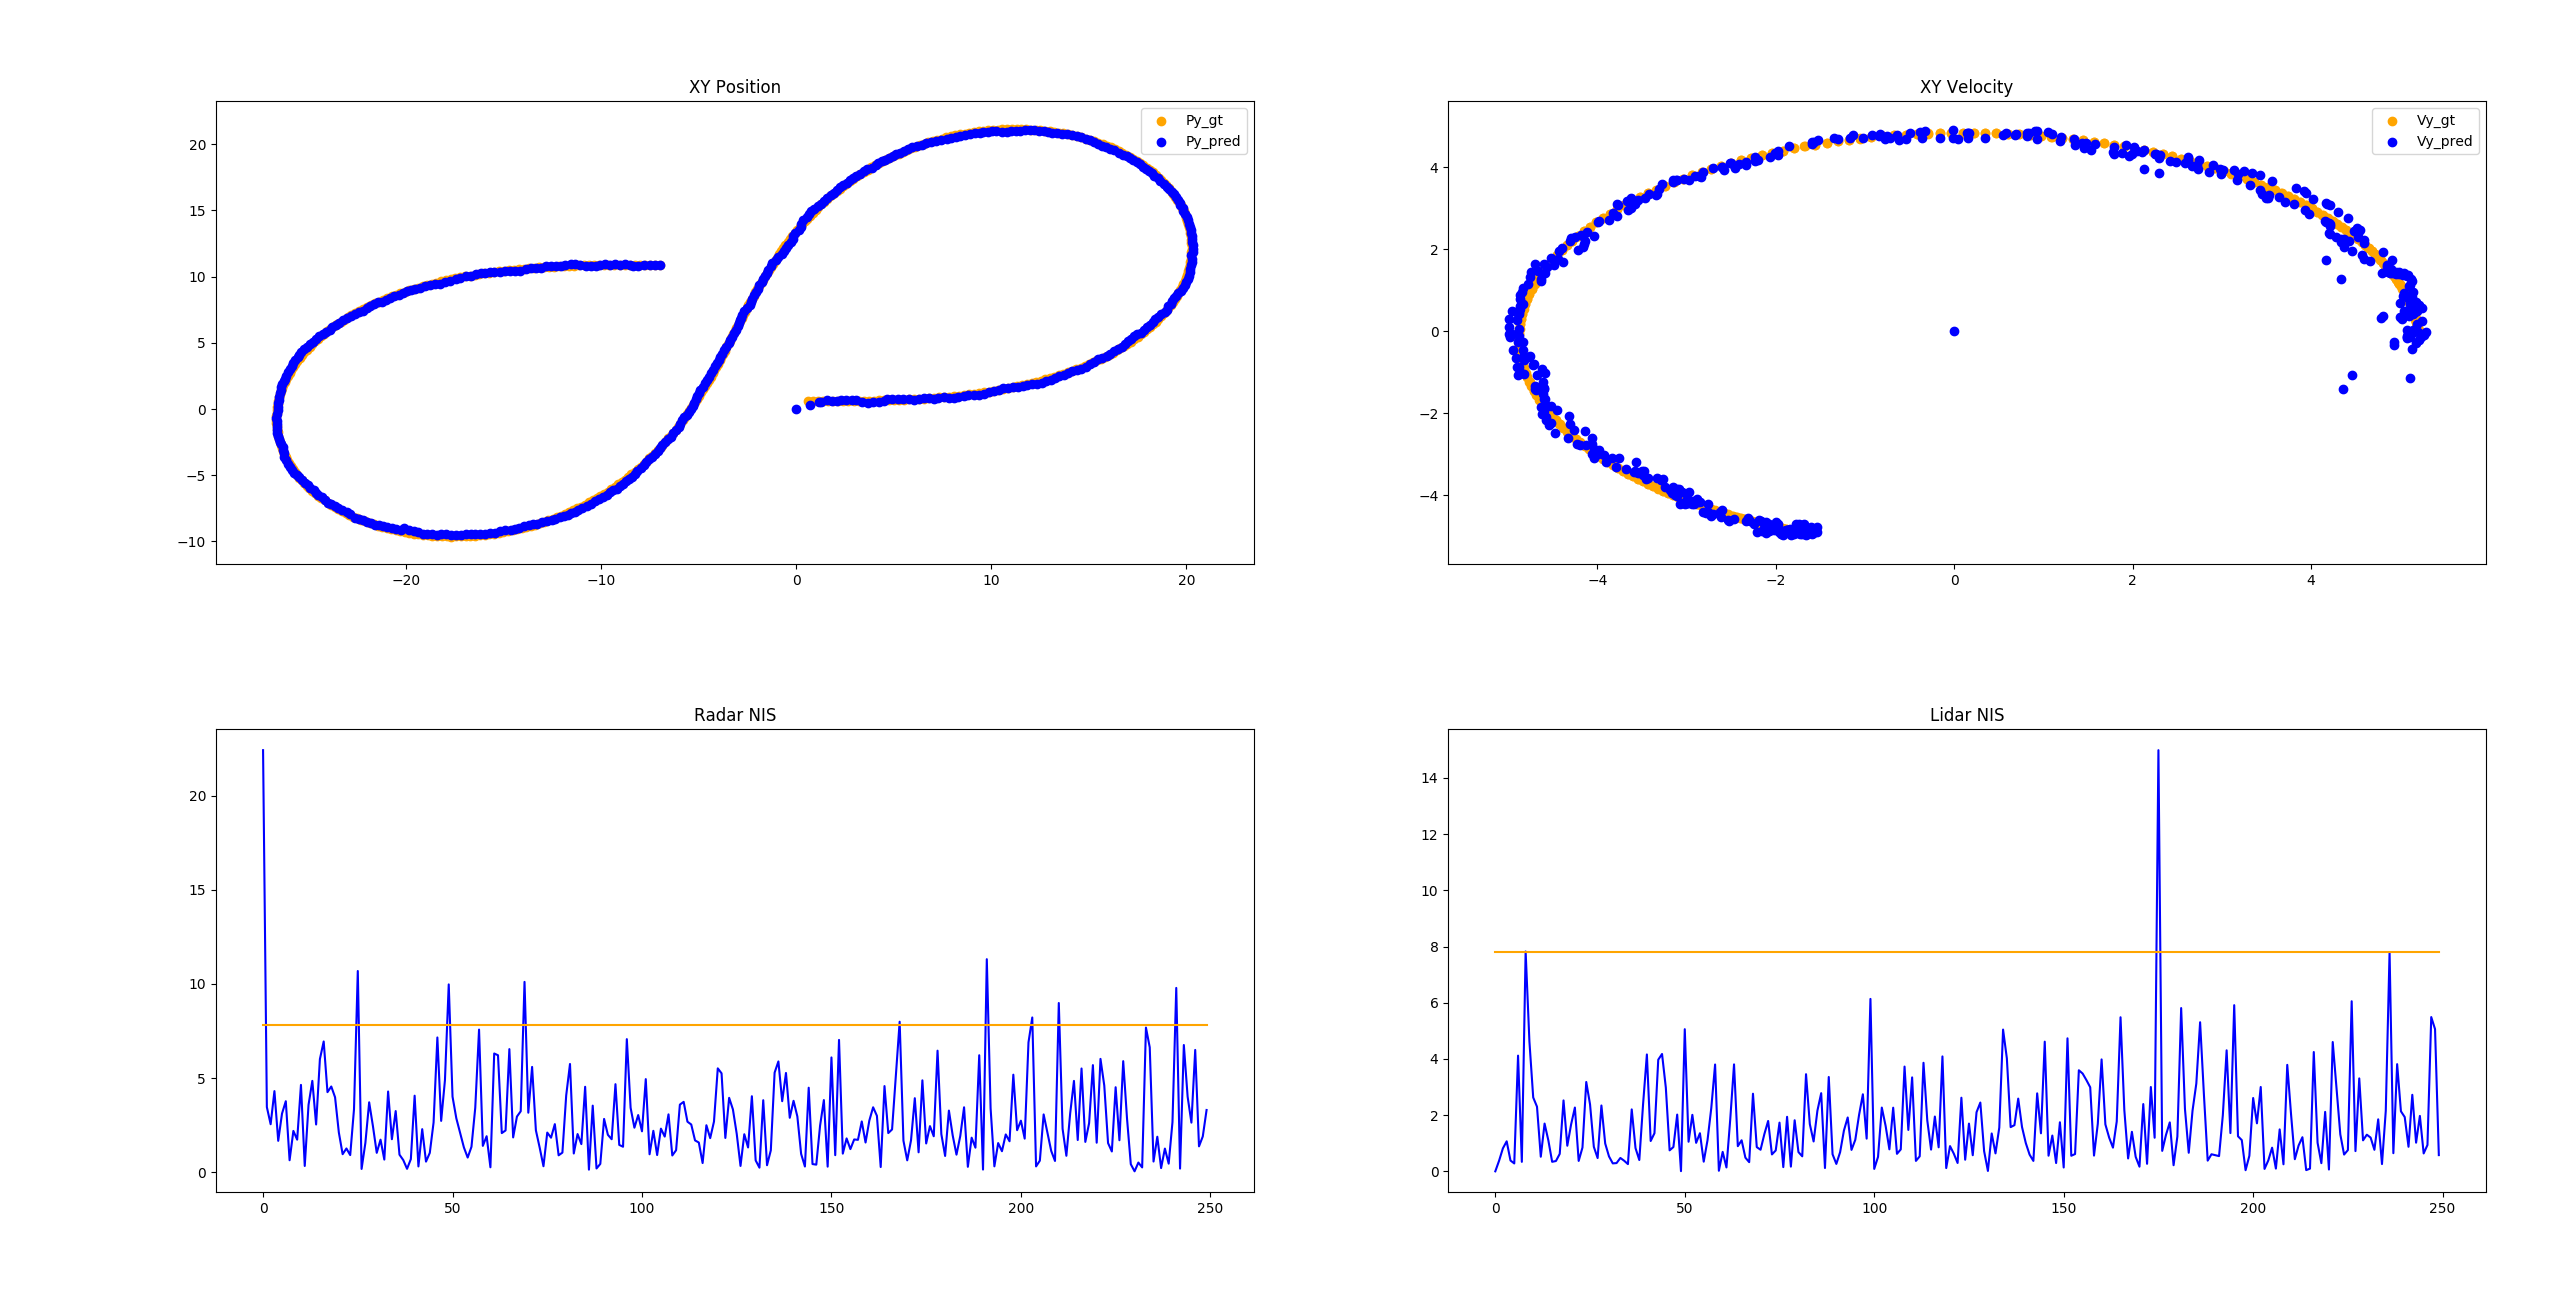
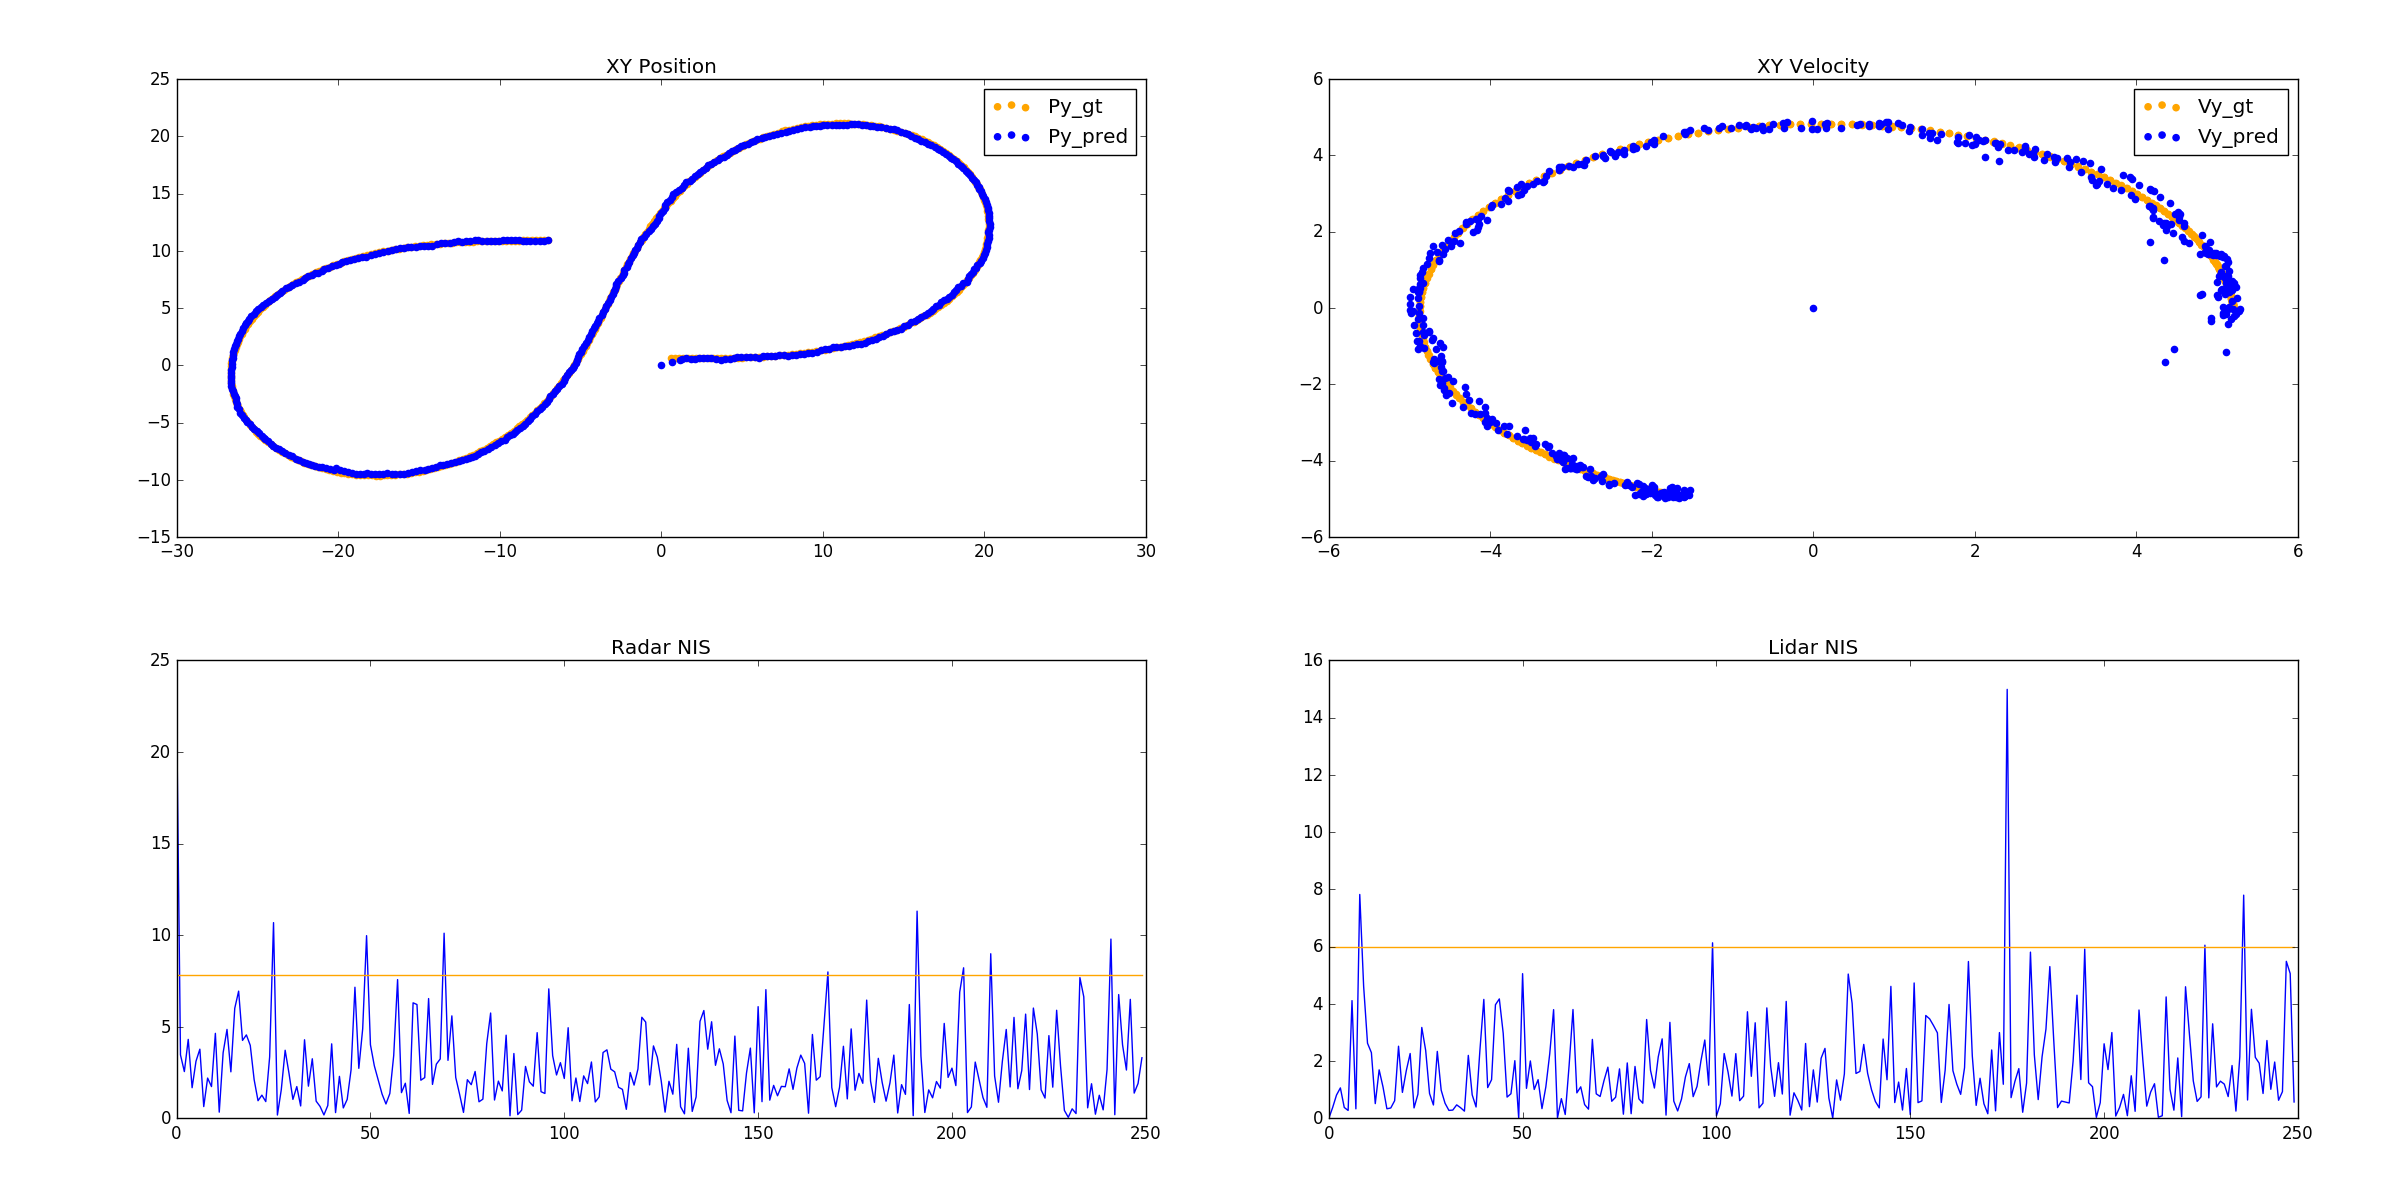
Fix degrees of freedom for Lidar NIS plot

diff --git a/UnscentedKalmanFilter/visualize.py b/UnscentedKalmanFilter/visualize.py
@@ -37,7 +37,7 @@ def main():
     chi_95p_3df = np.full(nis_radar.shape, chi2.isf(df=3, q=0.05))
 
     nis_lidar = data.loc[data.SensorType == 'L']['NIS'].as_matrix()
-    chi_95p_2df = np.full(nis_radar.shape, chi2.isf(df=3, q=0.05))
+    chi_95p_2df = np.full(nis_radar.shape, chi2.isf(df=2, q=0.05))
 
     ax = plt.subplot(2,2,3)
     ax.set_title('Radar NIS')
